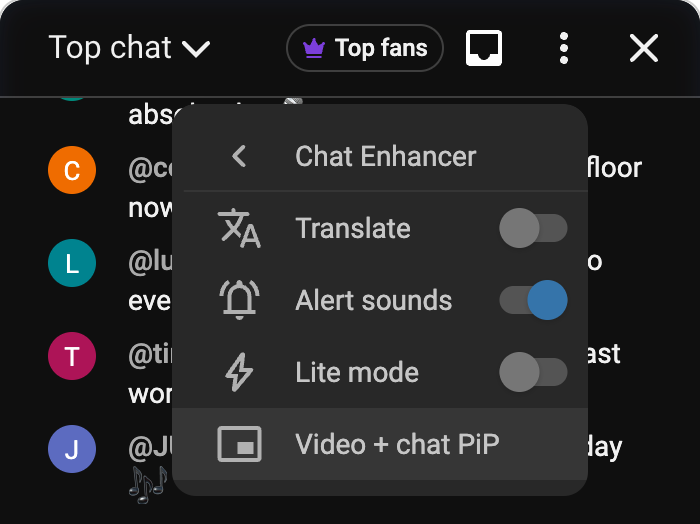
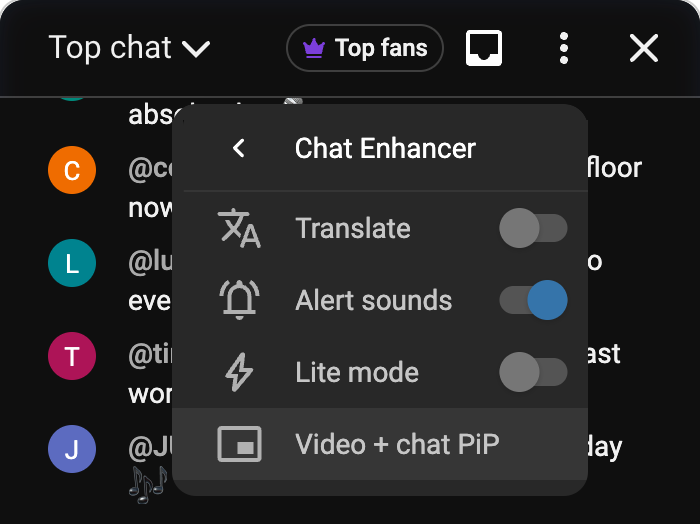
style: menu back item restyle + blog cover

Changed region(s): [[0.42, 0.2443, 0.69, 0.3359], [0.33, 0.2748, 0.36, 0.3359]]

diff --git a/apps/extension/src/styles/content/menus.css b/apps/extension/src/styles/content/menus.css
@@ -87,6 +87,33 @@ ytd-menu-popup-renderer .ytcq-context-item .ytcq-paper-item:hover {
   background: var(--ytcq-menu-hover-background);
 }
 
+/* The back row is a compact navigation header, with hover on its arrow only. */
+ytd-menu-popup-renderer [data-ytcq-action="settings-back"] .ytcq-paper-item {
+  padding-inline-start: 14px;
+  padding-block-end: 8px;
+  gap: 14px;
+}
+
+ytd-menu-popup-renderer [data-ytcq-action="settings-back"] .ytcq-menu-icon {
+  width: 28px;
+  height: 28px;
+  border-radius: 50%;
+  opacity: 1;
+}
+
+ytd-menu-popup-renderer [data-ytcq-action="settings-back"] .ytcq-menu-icon svg {
+  width: 20px;
+  height: 20px;
+}
+
+ytd-menu-popup-renderer [data-ytcq-action="settings-back"] .ytcq-paper-item:is(:hover, :focus-visible) {
+  background: transparent;
+}
+
+ytd-menu-popup-renderer [data-ytcq-action="settings-back"] .ytcq-paper-item:is(:hover, :focus-visible) .ytcq-menu-icon {
+  background: var(--ytcq-menu-hover-background);
+}
+
 ytd-menu-popup-renderer [data-ytcq-action="picture-in-picture"] .ytcq-menu-label {
   white-space: normal;
   overflow-wrap: anywhere;

diff --git a/apps/docs/src/styles/site.css b/apps/docs/src/styles/site.css
@@ -80,7 +80,7 @@
 .site-nav::before,
 .hero-walkthrough-button,
 .hero-blog-ticker-track,
-.hero-blog-ticker-media,
+.hero-blog-ticker-slide,
 .hero-blog-ticker-controls,
 .hero-blog-ticker-control,
 .button,
@@ -938,6 +938,7 @@ h3 {
   overflow: hidden;
   color: inherit;
   background: transparent;
+  border-radius: inherit;
   opacity: 0;
   pointer-events: none;
 }
@@ -1015,8 +1016,6 @@ html[dir="rtl"] .hero-blog-ticker.is-moving-previous .hero-blog-ticker-slide.is-
   min-width: 0;
   overflow: hidden;
   background: #fff;
-  border-start-end-radius: var(--large-surface-corner-radius);
-  border-end-end-radius: var(--large-surface-corner-radius);
 }
 
 .hero-blog-ticker-media img {
@@ -1037,7 +1036,6 @@ html[dir="rtl"] .hero-blog-ticker.is-moving-previous .hero-blog-ticker-slide.is-
   min-height: 20px;
   padding: 1px 2px;
   color: #090a0c;
-  filter: drop-shadow(0 1px 1px rgba(9, 10, 12, 0.65));
   transform: rotate(-10deg);
   transform-origin: center;
 }

diff --git a/apps/docs/src/content/blog/2026-09-11-video-and-chat-picture-in-picture/uk.md b/apps/docs/src/content/blog/2026-09-11-video-and-chat-picture-in-picture/uk.md
@@ -3,7 +3,7 @@ title: "Відео й чат у режимі PiP тепер доступні у 
 date: 2026-09-11
 description: "Тримайте трансляцію YouTube і чат в одному рухомому вікні, поки користуєтеся іншими вкладками та застосунками."
 slug: "video-and-chat-picture-in-picture"
-image: "./pip-wide.png"
+image: "./cover.png"
 locale: "uk"
 translationKey: "video-and-chat-picture-in-picture"
 tags:
@@ -33,6 +33,8 @@ tags:
 ## Невелике вікно з місцем для обох
 
 Вікно відкривається з відео над компактним чатом. Доберіть зручний розмір: якщо розширити вікно, відео й чат розмістяться поруч.
+
+![Широке вікно «картинка в картинці» з відео та вигаданим чатом трансляції поруч.](./pip-wide.png) {shadow=smooth}
 
 :::media-right
 

diff --git a/apps/docs/src/content/blog/2026-09-11-video-and-chat-picture-in-picture/fa.md b/apps/docs/src/content/blog/2026-09-11-video-and-chat-picture-in-picture/fa.md
@@ -3,7 +3,7 @@ title: "حالت PiP ویدیو و چت اکنون در نسخهٔ 1.1.0 در د
 date: 2026-09-11
 description: "هنگام استفاده از برگهها و برنامههای دیگر، پخش YouTube و چت زنده را در یک پنجرهٔ شناور کنار هم نگه دارید."
 slug: "video-and-chat-picture-in-picture"
-image: "./pip-wide.png"
+image: "./cover.png"
 locale: "fa"
 translationKey: "video-and-chat-picture-in-picture"
 tags:
@@ -33,6 +33,8 @@ tags:
 ## پنجرهای کوچک با جا برای هر دو
 
 پنجره با ویدیو در بالای یک چت فشرده باز میشود. اندازهٔ آن را متناسب با نمایشگرتان تغییر دهید؛ با پهنترکردن پنجره، ویدیو و چت کنار هم قرار میگیرند.
+
+![پنجرهٔ عریض تصویر در تصویر با ویدیو و چت زندهٔ خیالی در کنار هم.](./pip-wide.png) {shadow=smooth}
 
 :::media-right
 

diff --git a/apps/docs/src/content/blog/2026-09-11-video-and-chat-picture-in-picture/vi.md b/apps/docs/src/content/blog/2026-09-11-video-and-chat-picture-in-picture/vi.md
@@ -3,7 +3,7 @@ title: "PiP video + trò chuyện hiện đã có trong phiên bản 1.1.0"
 date: 2026-09-11
 description: "Giữ buổi phát trên YouTube và trò chuyện trực tiếp trong một cửa sổ nổi khi bạn dùng các thẻ và ứng dụng khác."
 slug: "video-and-chat-picture-in-picture"
-image: "./pip-wide.png"
+image: "./cover.png"
 locale: "vi"
 translationKey: "video-and-chat-picture-in-picture"
 tags:
@@ -33,6 +33,8 @@ Trên trang xem YouTube có trò chuyện trực tiếp đang mở:
 ## Một cửa sổ nhỏ đủ chỗ cho cả hai
 
 Cửa sổ mở với video phía trên khung trò chuyện gọn hơn. Thay đổi kích thước cho phù hợp với màn hình; khi mở rộng cửa sổ, video và trò chuyện sẽ nằm cạnh nhau.
+
+![Cửa sổ hình trong hình rộng với video và cuộc trò chuyện trực tiếp hư cấu nằm cạnh nhau.](./pip-wide.png) {shadow=smooth}
 
 :::media-right
 

diff --git a/apps/docs/src/content/blog/2026-09-11-video-and-chat-picture-in-picture/ar.md b/apps/docs/src/content/blog/2026-09-11-video-and-chat-picture-in-picture/ar.md
@@ -3,7 +3,7 @@ title: "وضع PiP للفيديو والدردشة متاح الآن في الإ
 date: 2026-09-11
 description: "تابع بث YouTube والدردشة المباشرة معًا في نافذة عائمة أثناء استخدام علامات تبويب وتطبيقات أخرى."
 slug: "video-and-chat-picture-in-picture"
-image: "./pip-wide.png"
+image: "./cover.png"
 locale: "ar"
 translationKey: "video-and-chat-picture-in-picture"
 tags:
@@ -33,6 +33,8 @@ tags:
 ## نافذة صغيرة تتسع لكليهما
 
 تفتح النافذة ويظهر الفيديو فوق دردشة مدمجة. غيّر حجمها بما يناسب شاشتك؛ وعند توسيعها، يظهر الفيديو والدردشة جنبًا إلى جنب.
+
+![نافذة عائمة عريضة تعرض الفيديو ودردشة مباشرة خيالية جنبًا إلى جنب.](./pip-wide.png) {shadow=smooth}
 
 :::media-right
 

diff --git a/apps/docs/src/content/blog/2026-09-11-video-and-chat-picture-in-picture/ja.md b/apps/docs/src/content/blog/2026-09-11-video-and-chat-picture-in-picture/ja.md
@@ -3,7 +3,7 @@ title: "バージョン1.1.0で動画＋チャットのPiPが利用可能に"
 date: 2026-09-11
 description: "ほかのタブやアプリを使いながら、YouTube の配信とライブチャットをひとつのフローティングウィンドウで楽しめます。"
 slug: "video-and-chat-picture-in-picture"
-image: "./pip-wide.png"
+image: "./cover.png"
 locale: "ja"
 translationKey: "video-and-chat-picture-in-picture"
 tags:
@@ -33,6 +33,8 @@ tags:
 ## 小さなウィンドウに、両方の居場所を
 
 ウィンドウを開くと、コンパクトなチャットの上に動画が表示されます。画面に合わせてサイズを変えられます。横幅を広げると、動画とチャットが横に並びます。
+
+![動画と架空のライブチャットが横に並ぶ、横長のピクチャーインピクチャーウィンドウ。](./pip-wide.png) {shadow=smooth}
 
 :::media-right
 

diff --git a/apps/docs/src/content/blog/2026-09-11-video-and-chat-picture-in-picture/he.md b/apps/docs/src/content/blog/2026-09-11-video-and-chat-picture-in-picture/he.md
@@ -3,7 +3,7 @@ title: "וידאו וצ׳אט ב-PiP זמינים עכשיו בגרסה 1.1.0"
 date: 2026-09-11
 description: "השאירו את השידור ב-YouTube ואת הצ׳אט בשידור חי יחד בחלון צף בזמן השימוש בכרטיסיות ובאפליקציות אחרות."
 slug: "video-and-chat-picture-in-picture"
-image: "./pip-wide.png"
+image: "./cover.png"
 locale: "he"
 translationKey: "video-and-chat-picture-in-picture"
 tags:
@@ -33,6 +33,8 @@ tags:
 ## חלון קטן עם מקום לשניהם
 
 החלון נפתח כשהווידאו מעל צ׳אט קומפקטי. התאימו את הגודל למסך שלכם; כשתרחיבו את החלון, הווידאו והצ׳אט יוצגו זה לצד זה.
+
+![חלון תמונה בתוך תמונה רחב עם וידאו וצ׳אט חי בדיוני זה לצד זה.](./pip-wide.png) {shadow=smooth}
 
 :::media-right
 

diff --git a/apps/docs/src/content/blog/2026-09-11-video-and-chat-picture-in-picture/es.md b/apps/docs/src/content/blog/2026-09-11-video-and-chat-picture-in-picture/es.md
@@ -3,7 +3,7 @@ title: "PiP de vídeo + chat ya está disponible en la versión 1.1.0"
 date: 2026-09-11
 description: "Mantén una emisión de YouTube y su chat en directo juntos en una ventana flotante mientras usas otras pestañas y aplicaciones."
 slug: "video-and-chat-picture-in-picture"
-image: "./pip-wide.png"
+image: "./cover.png"
 locale: "es"
 translationKey: "video-and-chat-picture-in-picture"
 tags:
@@ -33,6 +33,8 @@ En una página de vídeo de YouTube con el chat en directo abierto:
 ## Una ventana pequeña con espacio para ambos
 
 La ventana se abre con el vídeo encima de un chat compacto. Ajusta su tamaño a tu pantalla; al hacerla más ancha, el vídeo y el chat se colocan uno al lado del otro.
+
+![Una ventana amplia de imagen en imagen con el vídeo y un chat en directo ficticio uno al lado del otro.](./pip-wide.png) {shadow=smooth}
 
 :::media-right
 
